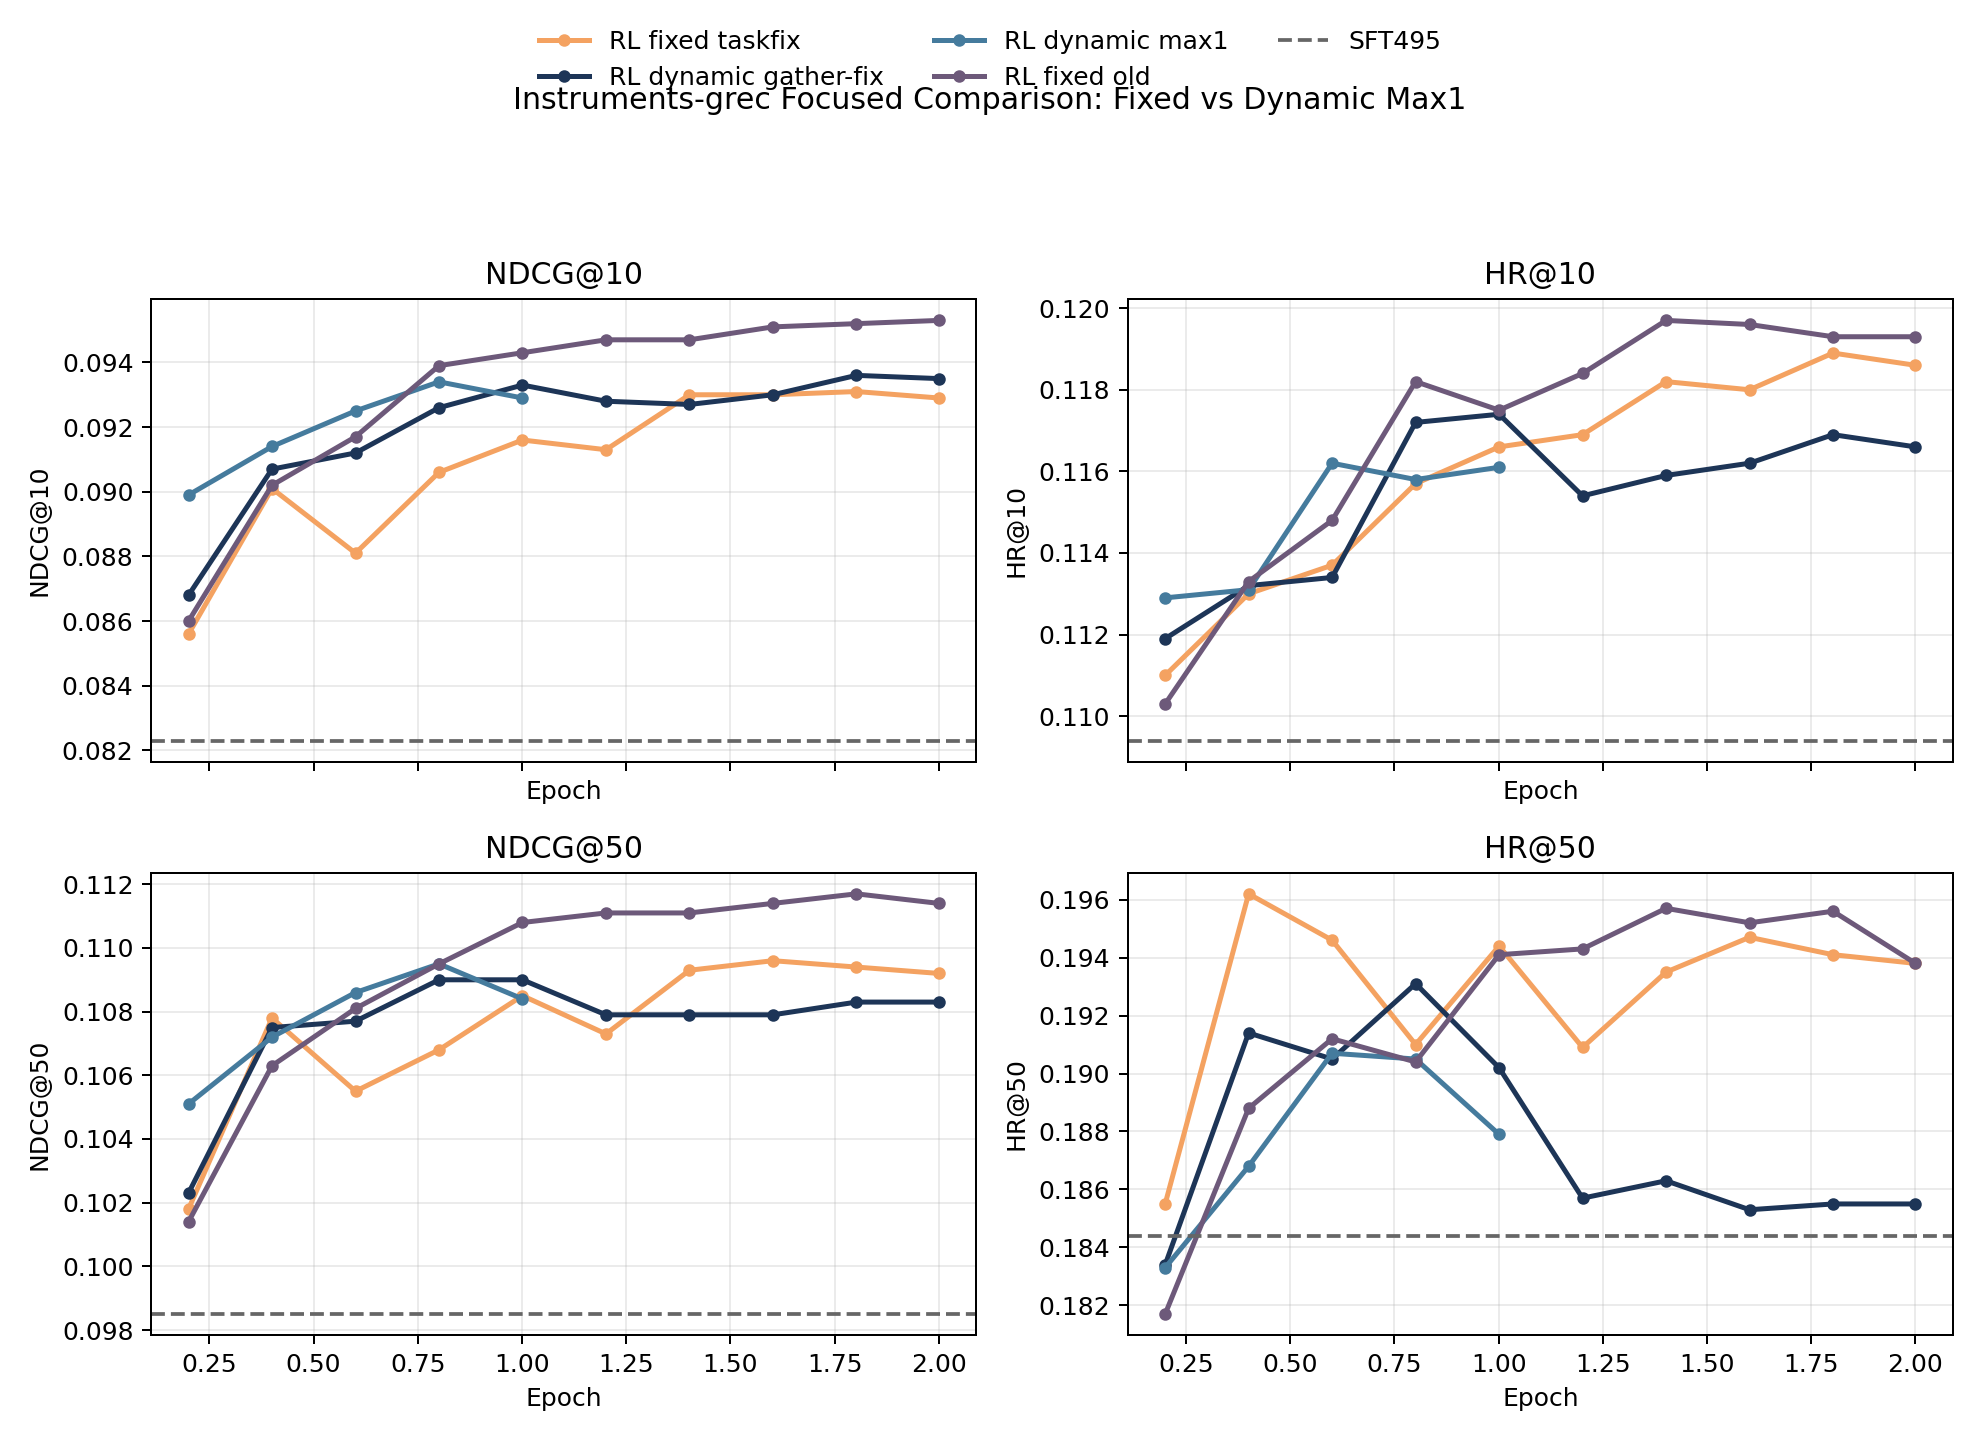
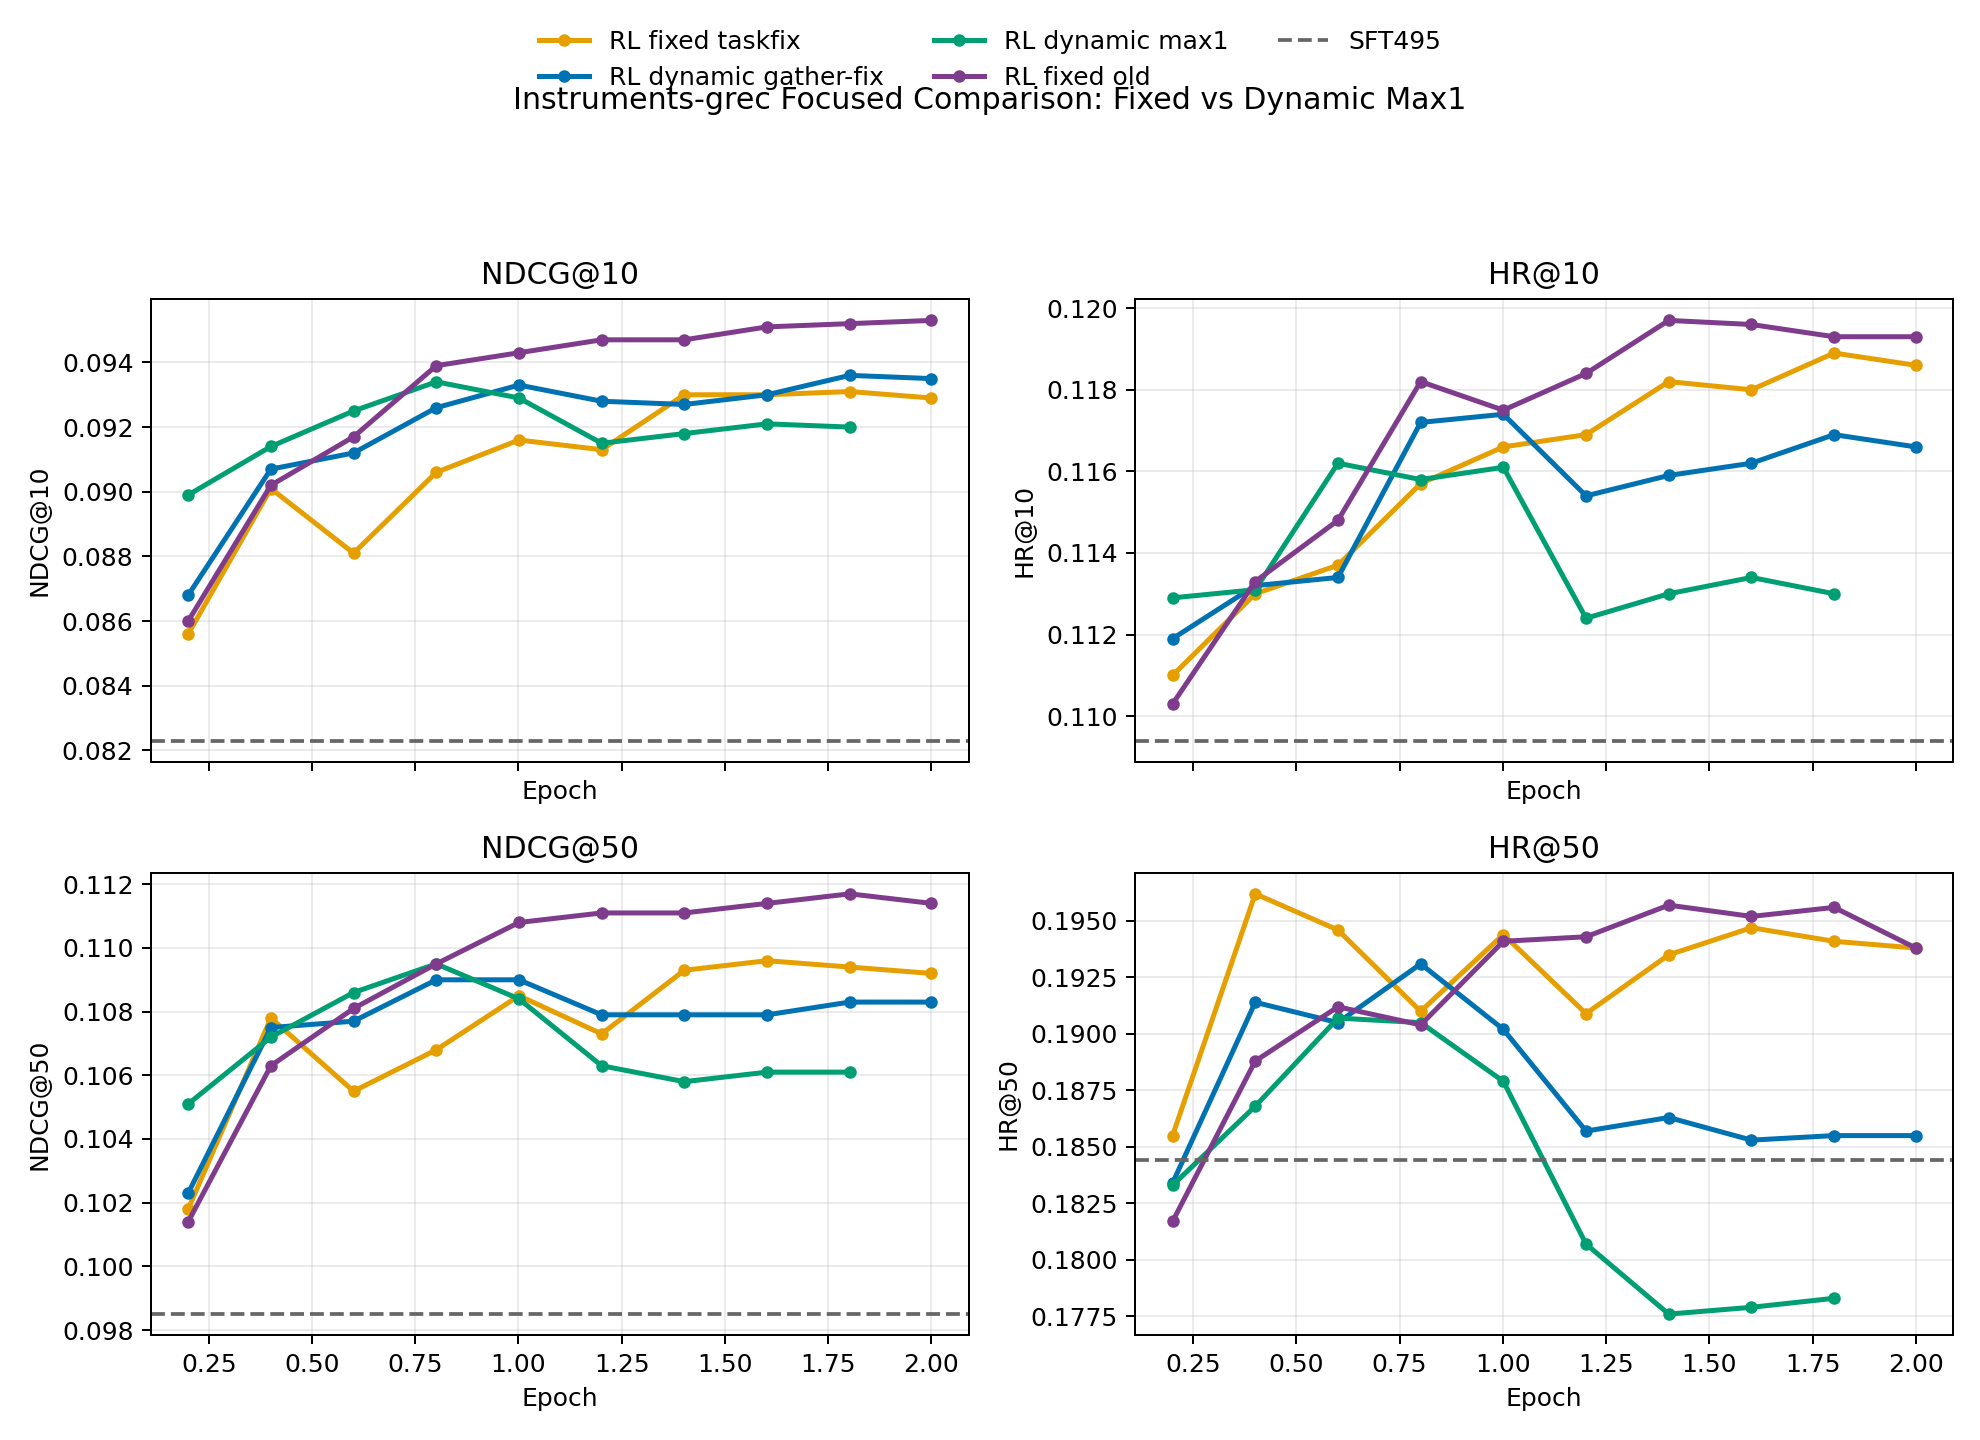
style(rl): increase max1 plot color contrast

diff --git a/scripts/reporting/generate_instruments_dynamic_hint_max1_assets.py b/scripts/reporting/generate_instruments_dynamic_hint_max1_assets.py
@@ -21,7 +21,7 @@ VARIANTS = [
         "key": "max1",
         "label": "RL dynamic max1",
         "model_dir": "Instruments-grec-grpo-rule-only-dynamic-hint-max1-qwen2.5-3b-qwen4B-4-256-from-sft495",
-        "color": "#457b9d",
+        "color": "#009E73",
         "max_step": 3326,
         "num_train_epochs": 2.0,
         "include_in_main": True,
@@ -30,7 +30,7 @@ VARIANTS = [
         "key": "dynamic_gather_fix",
         "label": "RL dynamic gather-fix",
         "model_dir": "Instruments-grec-grpo-rule-only-dynamic-hint-cascade-reward-gather-fix-qwen2.5-3b-qwen4B-4-256-from-sft495",
-        "color": "#1d3557",
+        "color": "#0072B2",
         "max_step": 3326,
         "num_train_epochs": 2.0,
         "include_in_main": True,
@@ -66,7 +66,7 @@ VARIANTS = [
         "key": "fixed_taskfix",
         "label": "RL fixed taskfix",
         "model_dir": "Instruments-grec-grpo-rule-only-fixedhint-taskfix-b16-sft495",
-        "color": "#f4a261",
+        "color": "#E69F00",
         "max_step": 3326,
         "num_train_epochs": 2.0,
         "include_in_main": False,
@@ -75,7 +75,7 @@ VARIANTS = [
         "key": "fixed_old",
         "label": "RL fixed old",
         "model_dir": "Instruments-grec-grpo-rule-only-fixed-hint-mixed-single-generate-qwen2.5-3b-qwen4B-4-256-from-sft495",
-        "color": "#6d597a",
+        "color": "#7F3C8D",
         "max_step": 3326,
         "num_train_epochs": 2.0,
         "include_in_main": False,

diff --git a/tests/test_generate_instruments_dynamic_hint_max1_assets.py b/tests/test_generate_instruments_dynamic_hint_max1_assets.py
@@ -21,6 +21,22 @@ def _load_module():
 
 
 class GenerateInstrumentsDynamicHintMax1AssetsTests(unittest.TestCase):
+    def test_focus_palette_uses_high_contrast_colors(self):
+        module = _load_module()
+
+        expected = {
+            "max1": "#009E73",
+            "dynamic_gather_fix": "#0072B2",
+            "fixed_taskfix": "#E69F00",
+            "fixed_old": "#7F3C8D",
+        }
+
+        variant_map = {variant["key"]: variant for variant in module.VARIANTS}
+        actual = {key: variant_map[key]["color"] for key in expected}
+
+        self.assertEqual(actual, expected)
+        self.assertEqual(len(set(actual.values())), len(actual))
+
     def test_epoch_alignment_keeps_partial_max1_run_below_two_epochs(self):
         module = _load_module()
 
